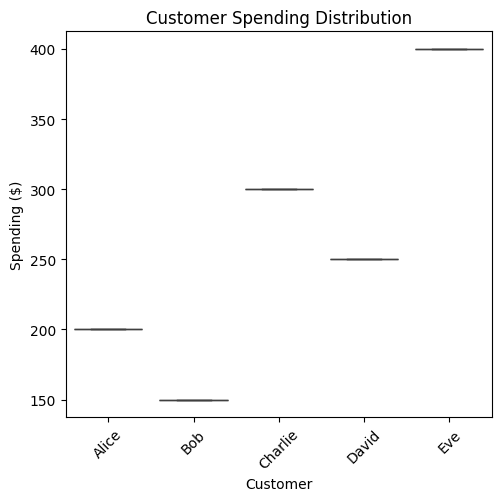
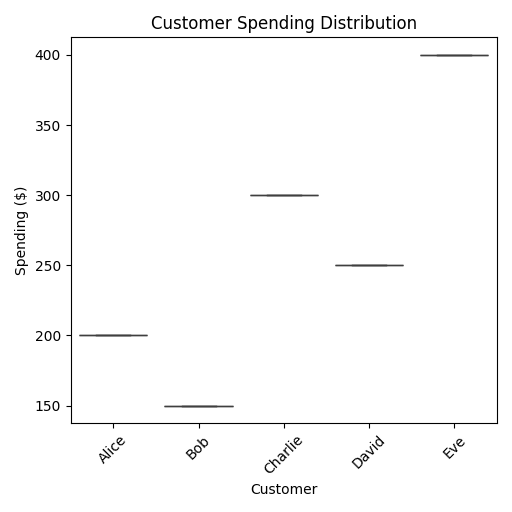
modified:   chart.png 	modified:   chart.py

Changed region(s): [[0.0, 0.0, 0.988, 0.988], [0.479, 0.3593, 0.6287, 0.3892], [0.6587, 0.509, 0.7784, 0.5389]]

diff --git a/chart.py b/chart.py
@@ -9,12 +9,12 @@ data = {
 }
 df = pd.DataFrame(data)
 # Create a boxplot using seaborn to be saved as 512x512 pixel image
-plt.figure(figsize=(5.12, 5.12))
+plt.figure(figsize=(5.12, 5.12), dpi=100)
 sns.boxplot(x='Customer', y='Spending', data=df)
 plt.title('Customer Spending Distribution')
 plt.xlabel('Customer')
 plt.ylabel('Spending ($)')
 plt.xticks(rotation=45)
 plt.tight_layout()
-plt.savefig('chart.png', dpi=100, bbox_inches='tight')
+plt.savefig('chart.png', dpi=100)
 plt.close()
